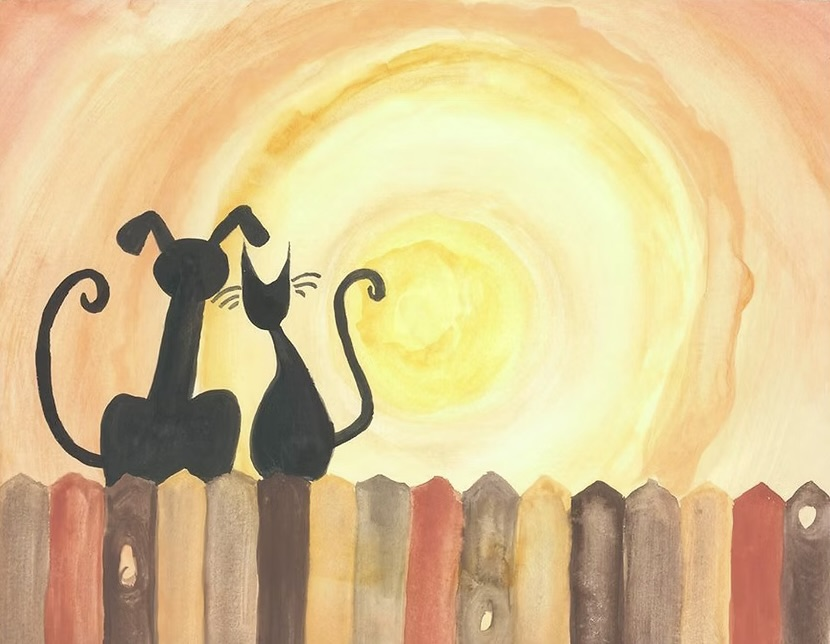
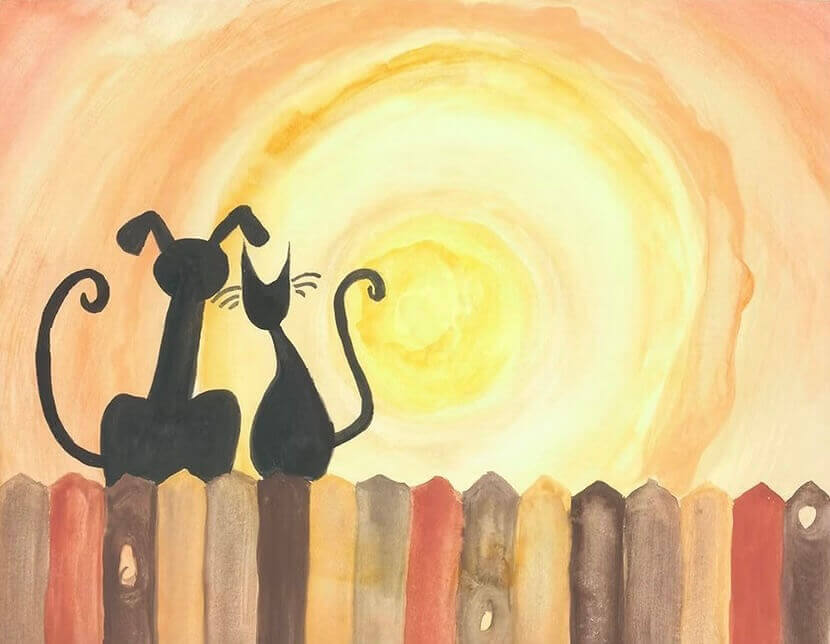
lowered resolution of images

diff --git a/src/components/pet-item/PetItem.vue b/src/components/pet-item/PetItem.vue
@@ -29,6 +29,9 @@ function handleAdopt() {
       height="300"
       width="300"
       loading="lazy"
+      :style="{
+        background: `url('/images/paw.svg') 90px 60px/100px 100px no-repeat #add8e6`,
+      }"
     />
     <div class="info-section">
       <h5>{{ props.name }}</h5>
